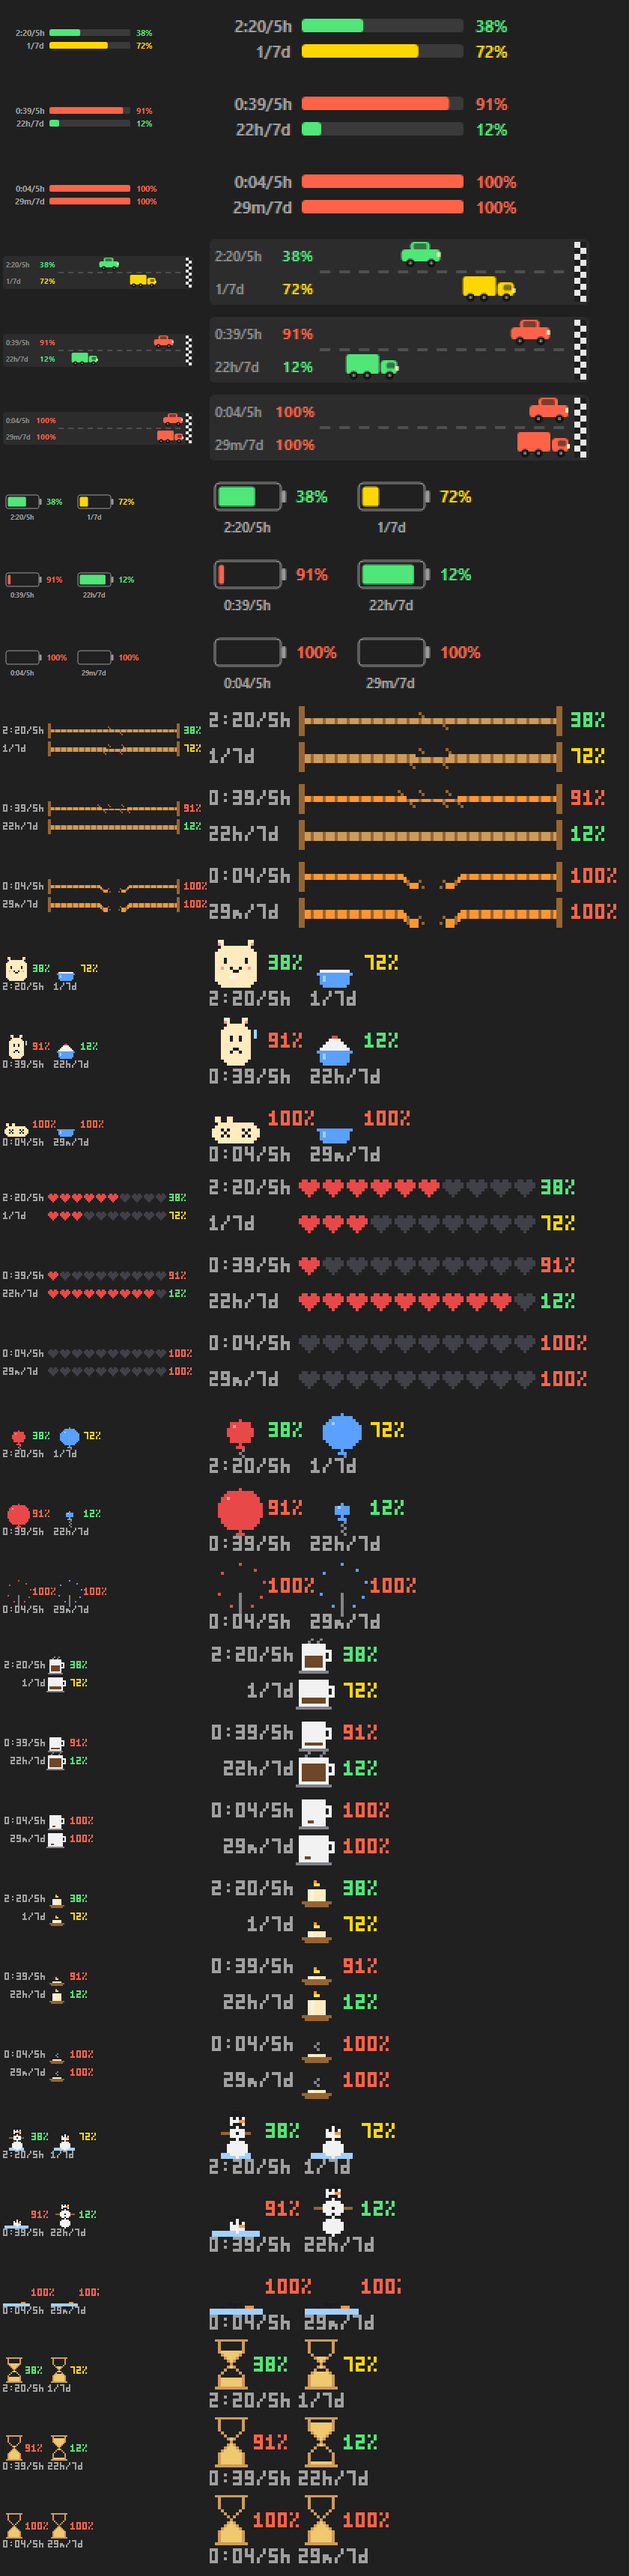
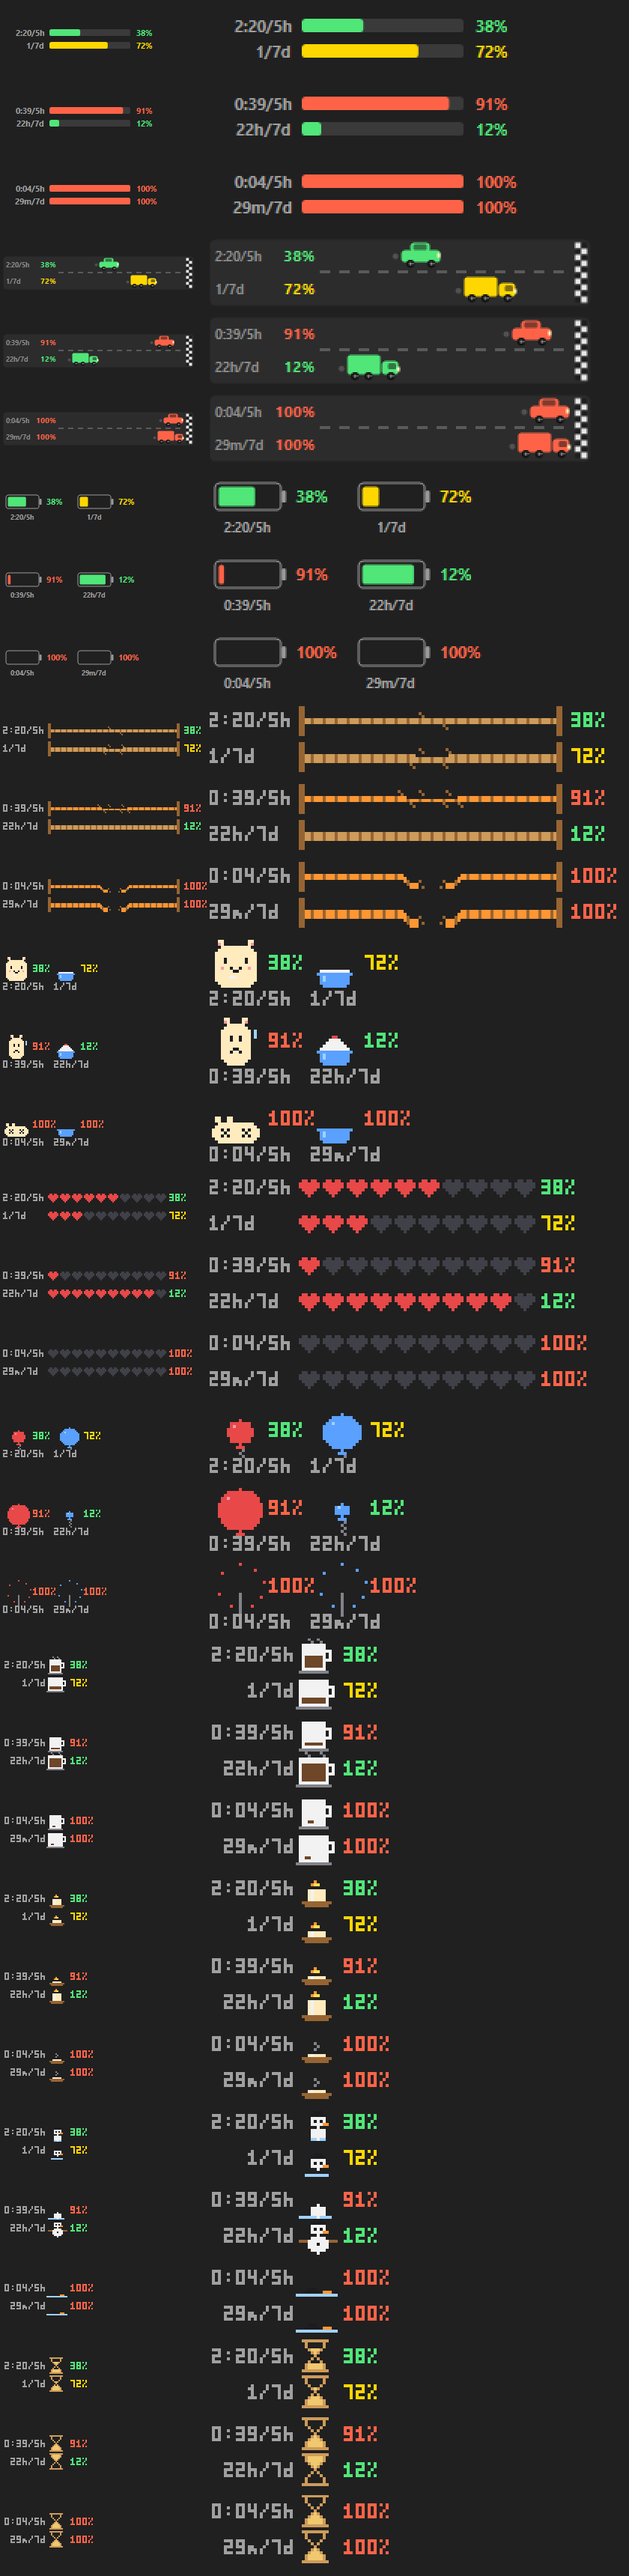
눈사람·모래시계도 2행 정렬로 + 자동차 애니메이션
- 눈사람·모래시계: 커피·양초와 같은 `라벨(오른쪽 정렬) | 아이콘 | %` 2행 구조로 통일.
  모래시계 테두리 스프라이트가 속이 차 있어 모래를 덮던 것도 수정(통나무처럼 보였음).
- 자동차: 실제로 달린다 — 차선 스크롤 · 바퀴 스포크 회전 · 차체 상하 진동 · 배기.
- 프레임워크: 테마가 `Anim = <ms>` 를 선언하면 그 주기로 다시 그리는 애니메이션 타이머 추가.
  `$d.F` 로 프레임 번호 전달, 숨김 상태에선 자동 정지, 애니 프레임은 툴팁을 건드리지 않음.
- 애니메이션 비용 최적화: 매 프레임 벡터를 다시 그리면 6.8ms/frame·CPU 8% 였다(실측).
  비싼 건 DrawImage(0.04ms)가 아니라 호출마다 GraphicsPath 를 만드는 Fill-RoundRect.
  정적 배경·차선 띠·차량 4프레임을 미리 구워 붙이는 방식으로 1.2ms/frame·CPU 3% 로 감소.

검증: 11테마 x 3케이스 렌더 오류 0 · 5~100% 구간 육안 확인 · 60초 가동 responding=True, 핸들 감소, error.log 비어 있음.

diff --git a/README.md b/README.md
@@ -86,7 +86,7 @@ powershell -NoProfile -ExecutionPolicy Bypass -File "%USERPROFILE%\tools\cc-usag
 | # | 테마 | 표현 | 5h / 7d |
 |---|---|---|---|
 | 01 | 막대 게이지 (기본) | 진행 막대 + 숫자 | 두 줄 |
-| 02 | 자동차 | 결승 깃발까지 달리는 차, 왼쪽에 남은시간·% | 승용차 / 화물차 |
+| 02 | 자동차 | **움직입니다** — 차선이 흐르고 바퀴가 돌고 차체가 튄다. 위치 = 사용률 | 승용차 / 화물차 |
 | 03 | 배터리 | 잔량 = 남은 한도 | 두 개 |
 | 04 | 밧줄 | 쓸수록 너덜너덜 → 75% 한 가닥 → **100% 뚝** | 가는 줄 / 굵은 줄 |
 | 05 | 배부름 | 배 크기·표정 = 5h 남은 양, 밥그릇 = 7d 남은 양. 100% 쓰면 기절 x_x | 캐릭터 / 밥그릇 |
@@ -94,8 +94,8 @@ powershell -NoProfile -ExecutionPolicy Bypass -File "%USERPROFILE%\tools\cc-usag
 | 07 | 풍선 | 쓸수록 부풀어 **100% 펑** | 빨강 / 파랑 |
 | 09 | 커피 | 잔 속 커피 = 남은 양, 가득하면 김 | 위 작은 잔 / 아래 머그 |
 | 10 | 양초 | 남은 만큼 초, 불꽃 깜빡, 다 타면 연기 | 위 5h / 아래 7d |
-| 11 | 눈사람 | 녹아서 웅덩이, 100% 면 모자·당근만 | 두 눈사람 |
-| 12 | 모래시계 | 위 모래 = 남은 양, 목에서 떨어지는 모래 | 두 개 |
+| 11 | 눈사람 | 녹아서 웅덩이, 100% 면 모자·당근만 | 위 5h / 아래 7d |
+| 12 | 모래시계 | 위 모래 = 남은 양, 목에서 떨어지는 모래 | 위 5h / 아래 7d |
 
 번호는 메뉴 정렬 순서일 뿐입니다(08 은 세로 은유가 48px 가로 위젯에 안 맞아 뺀 젠가 자리).
 
@@ -152,6 +152,11 @@ Draw-PixelText $g $d.L5 0 18 $Col.Label           # 3x5 픽셀 폰트 (숫자 : 
 ```
 
 `$Px` 팔레트: Ink White Gray Dark Red Pink Orange Yellow Green Blue Sky Brown Wood Cream Sand Coffee. 분마다 바뀌는 효과는 `(Get-Date).Minute % 2` 로.
+
+**움직이는 테마**는 `Anim = 150`(프레임 간격 ms)을 선언하면 그 주기로 다시 그려지고 `$d.F` 가 프레임 번호로 들어옵니다. 숨겨져 있을 땐 자동으로 멈춥니다.
+⚠ 매 프레임 벡터를 다시 그리면 비쌉니다 — `Fill-RoundRect` 는 호출마다 GraphicsPath 를 만들어 자동차 테마가 6.8ms/frame, CPU 8% 였습니다.
+정적 배경과 움직이는 조각을 **미리 비트맵으로 구워 두고 붙이면** 1.2ms/frame 까지 내려갑니다(`02-cars.ps1` 참고).
+그래도 창 재합성 비용 때문에 자동차 테마는 **CPU 약 3%** 를 씁니다(다른 테마는 약 1%) — 배터리가 아쉬우면 정적 테마를 쓰세요.
 
 확인은 API 호출 없이:
 
